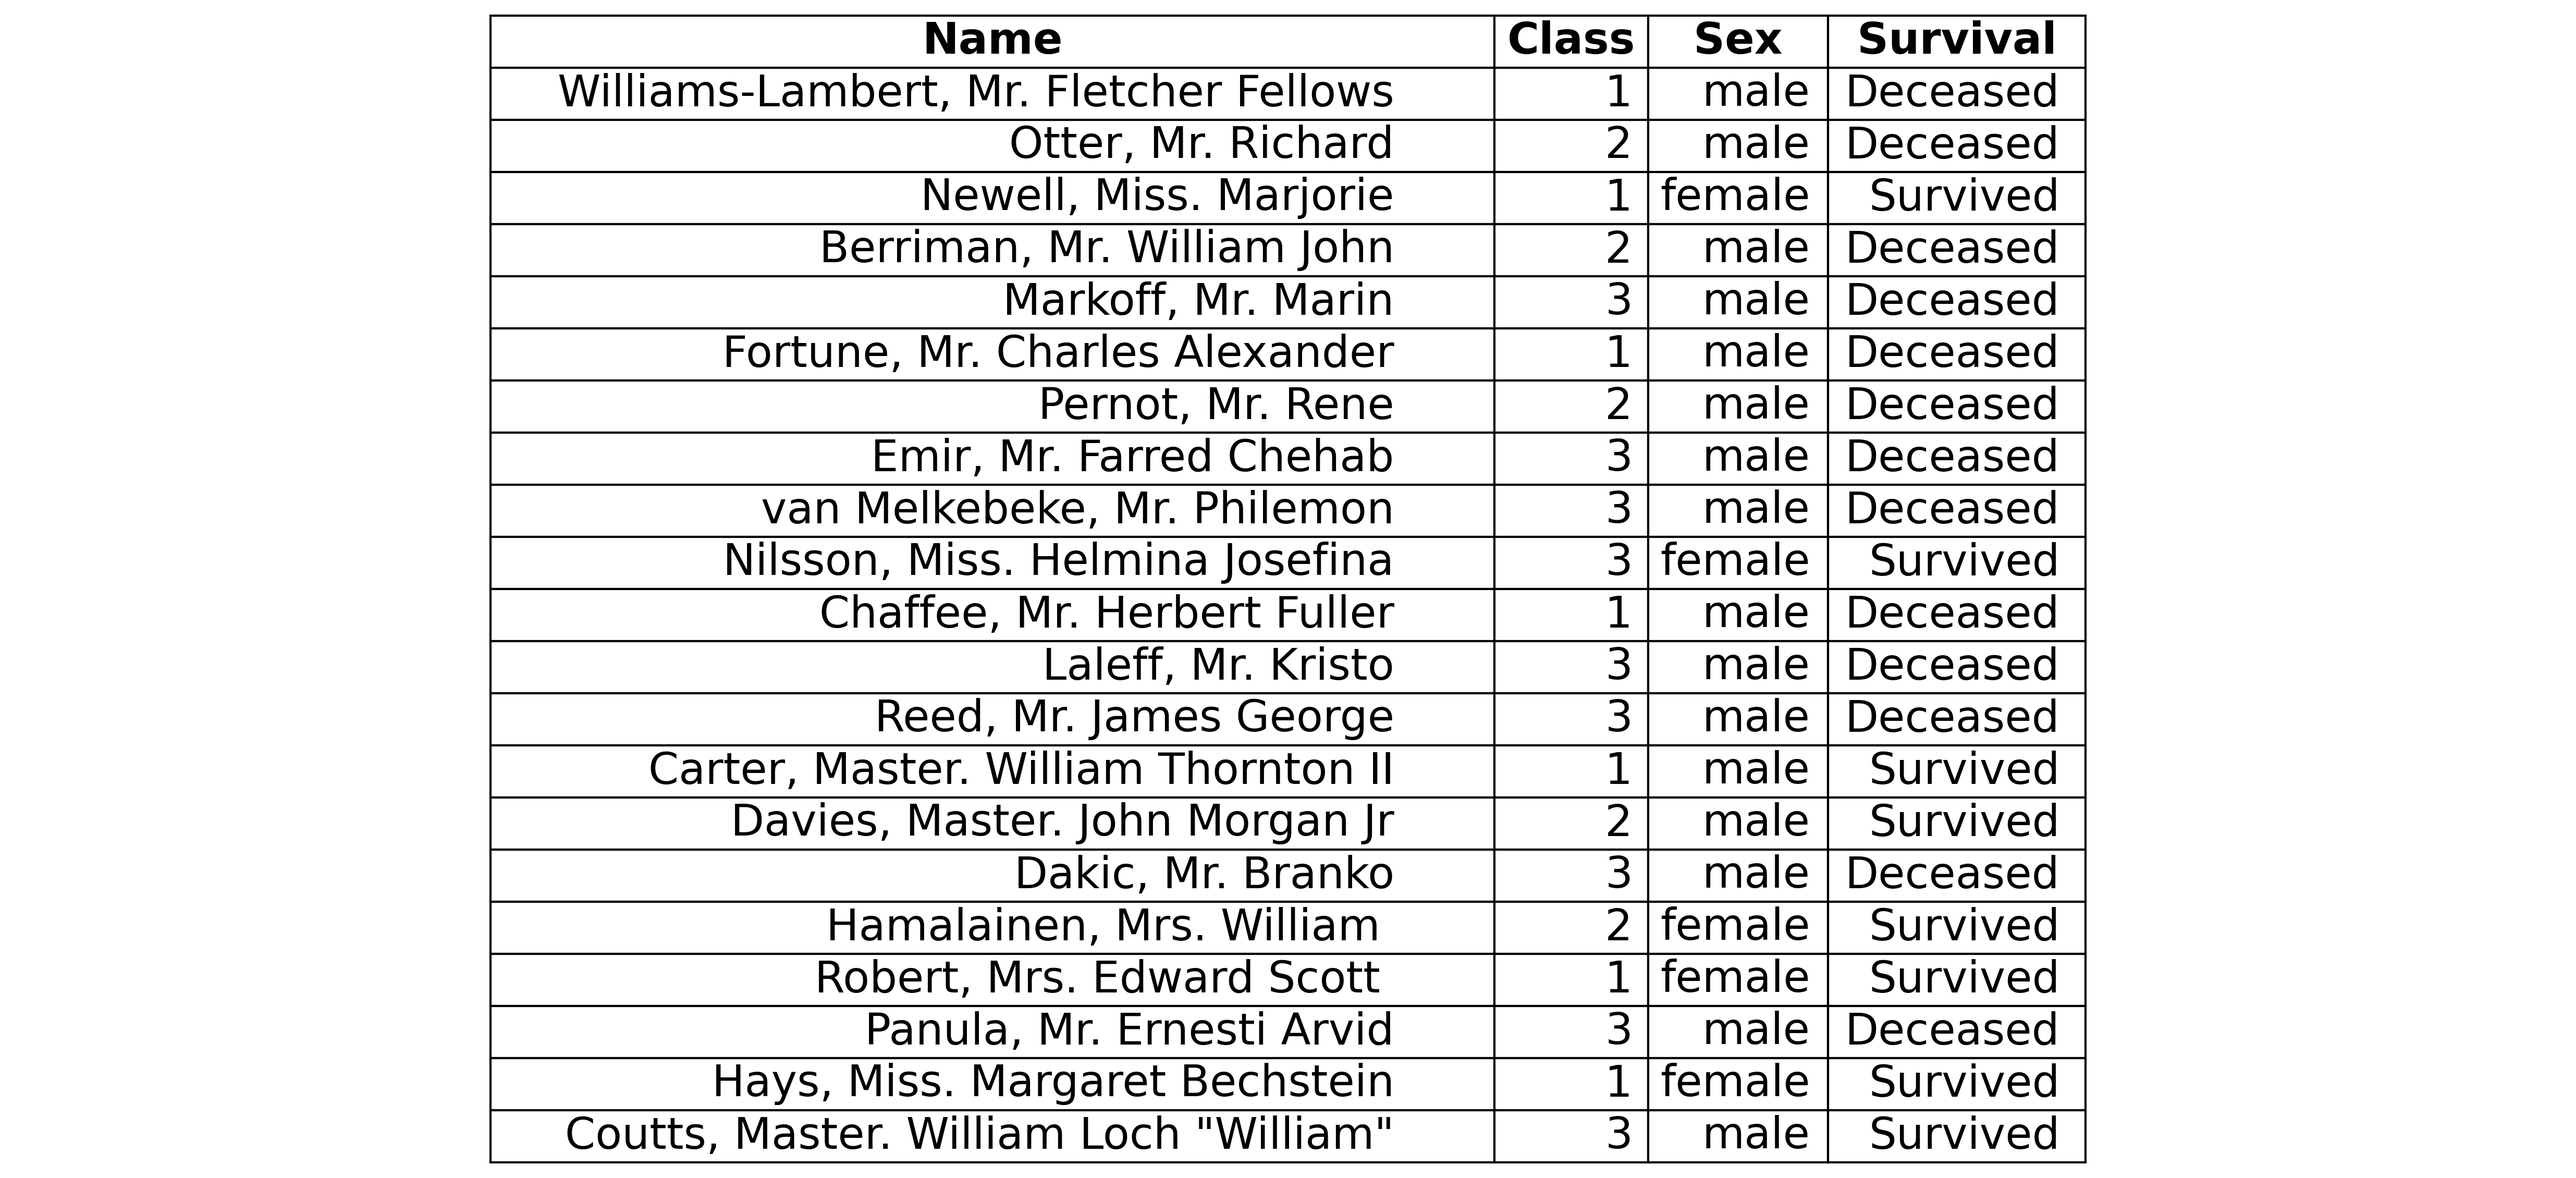
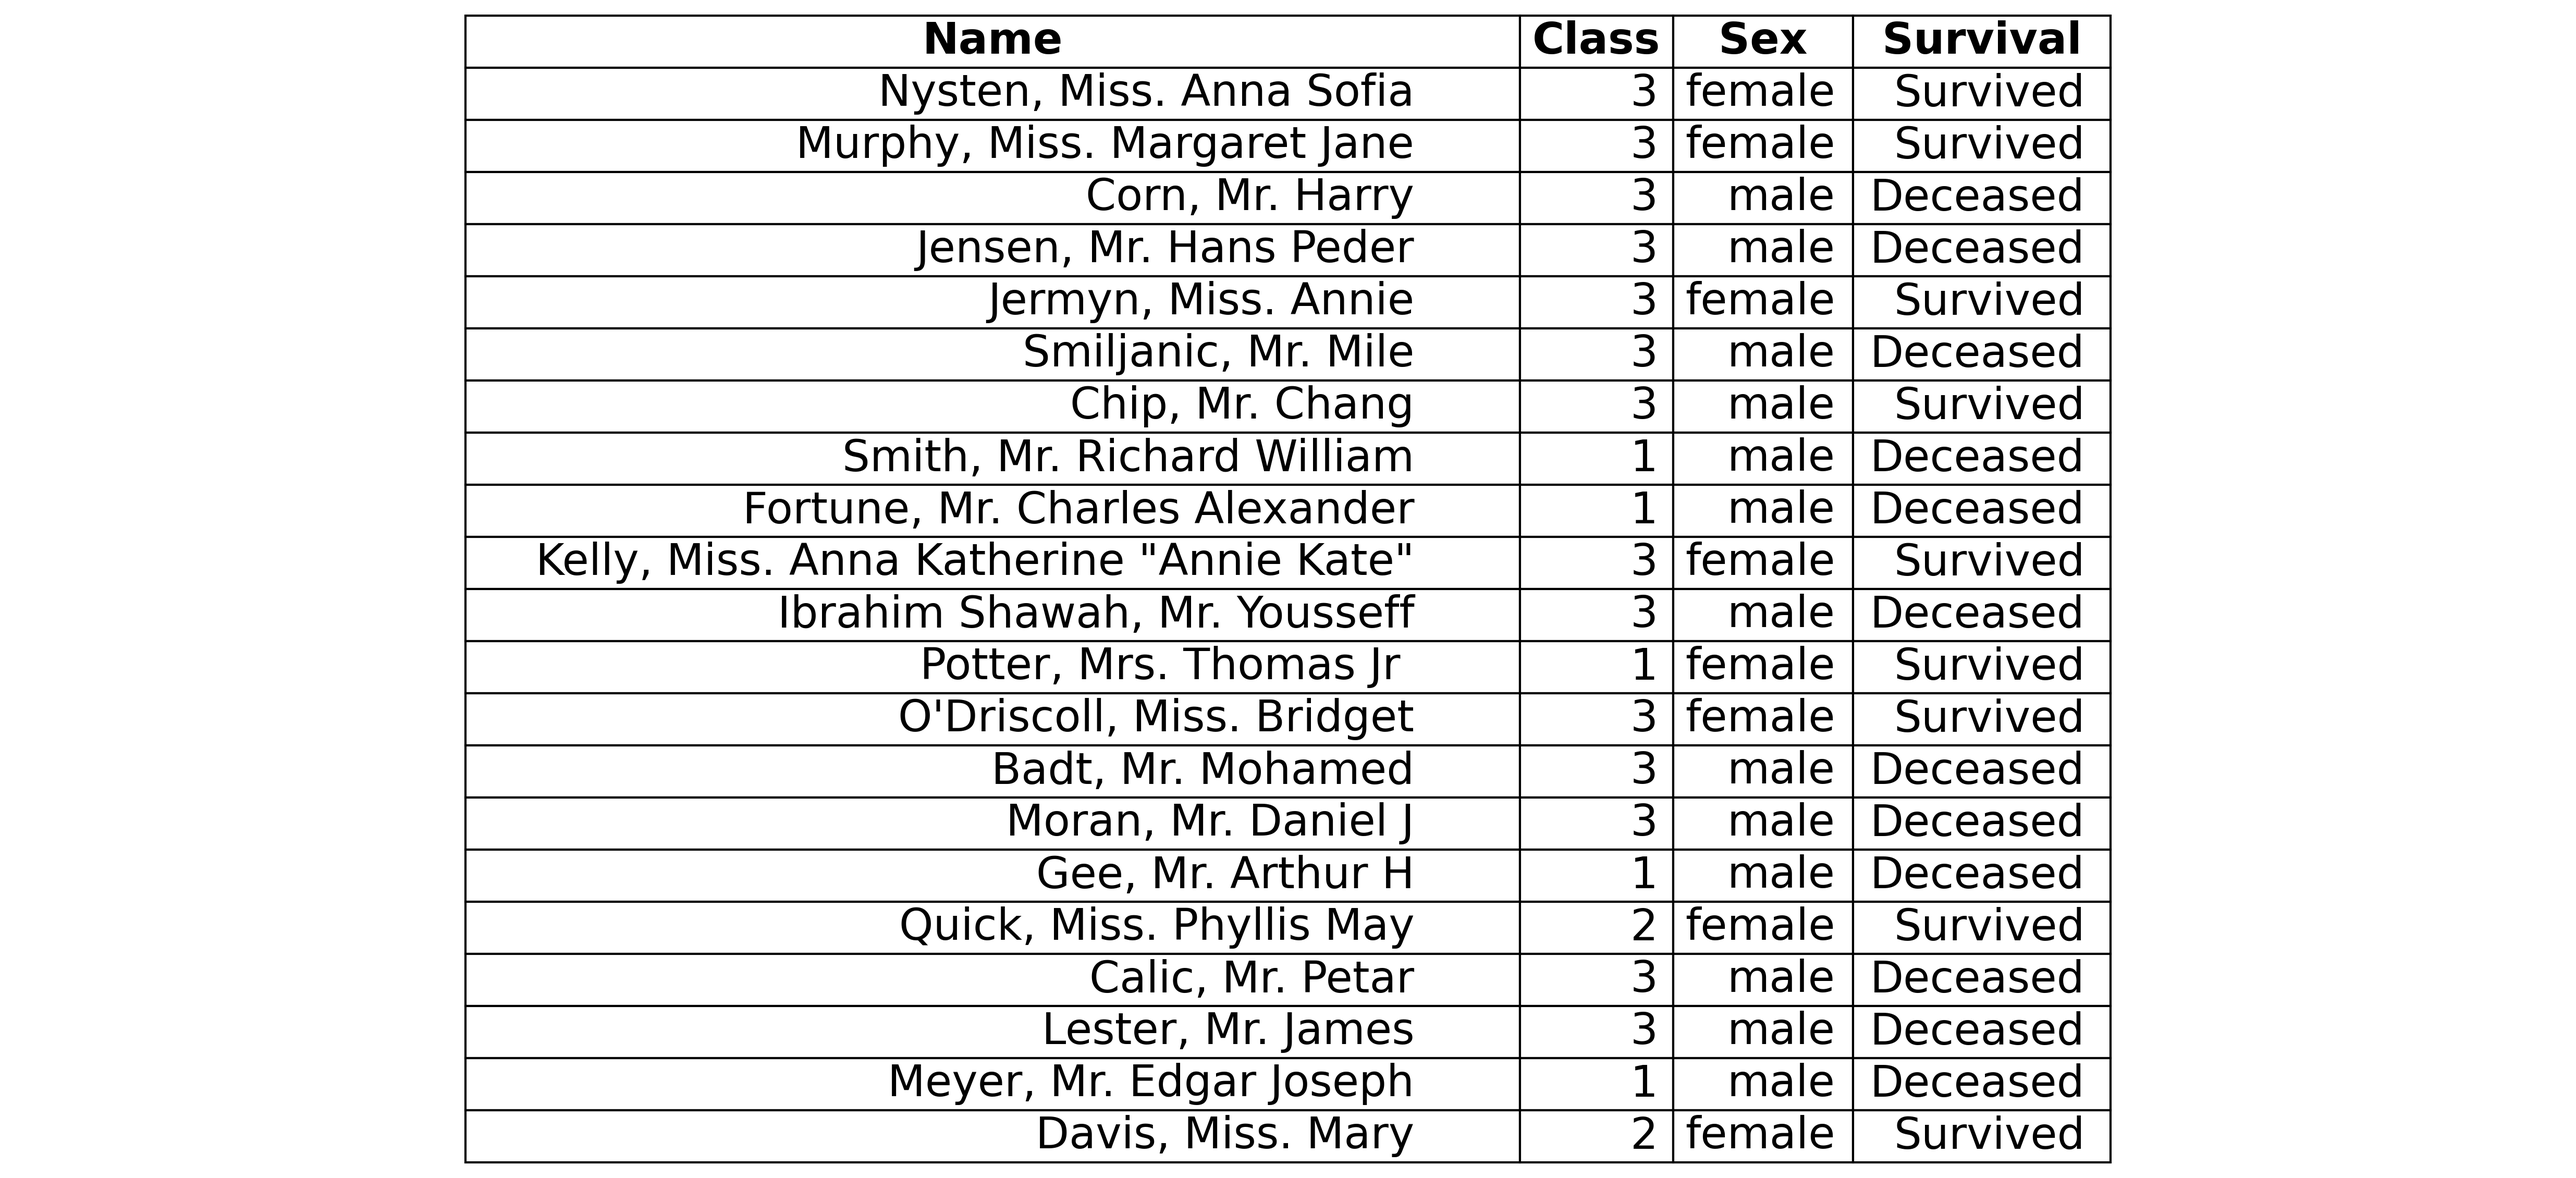
Fixed LINUX only bug

Changed region(s): [[0.187, 0.0619, 0.5609, 0.9912], [0.5609, 0.0, 0.8102, 0.9912]]

diff --git a/gm_guide.html b/gm_guide.html
@@ -339,64 +339,64 @@
 
 <strong>Card 1</strong>
 <pre><code>
-name: Andersson, Miss. Sigrid Elisabeth
+name: Attalah, Miss. Malake
 Pclass: 3
-Age: 11.0
+Age: 17.0
 Sex: female
-Fare: 31.27
-Embarked: S
+Fare: 14.46
+Embarked: C
 </code></pre>
 <strong>Card 2</strong>
 <pre><code>
-name: Dorking, Mr. Edward Arthur
-Pclass: 3
-Age: 19.0
-Sex: male
-Fare: 8.05
+name: Kenyon, Mrs. Frederick R (Marion)
+Pclass: 1
+Age: nan
+Sex: female
+Fare: 0.94
 Embarked: S
 </code></pre>
 <strong>Card 3</strong>
 <pre><code>
-name: Doharr, Mr. Tannous
-Pclass: 2
+name: O'Sullivan, Miss. Bridget Mary
+Pclass: 3
 Age: nan
-Sex: male
-Fare: 107.73
-Embarked: C
+Sex: female
+Fare: 7.63
+Embarked: Q
 </code></pre>
 <strong>Card 4</strong>
 <pre><code>
-name: Wick, Mrs. George Dennick (Mary Hitchcock)
-Pclass: 1
-Age: 45.0
-Sex: female
-Fare: 164.87
+name: Leyson, Mr. Robert William Norman
+Pclass: 2
+Age: 24.0
+Sex: male
+Fare: 10.5
 Embarked: S
 </code></pre>
 <strong>Card 5</strong>
 <pre><code>
-name: Nye, Mrs. (Elizabeth Ramell)
+name: Leitch, Miss. Jessie Wills
 Pclass: 2
-Age: 29.0
+Age: nan
 Sex: female
-Fare: 10.5
+Fare: 33.0
 Embarked: S
 </code></pre>
 <strong>Card 6</strong>
 <pre><code>
-name: Nicola-Yarred, Master. Elias
+name: Moor, Mrs. (Beila)
 Pclass: 3
-Age: 12.0
-Sex: male
-Fare: 11.24
-Embarked: C
+Age: 27.0
+Sex: female
+Fare: 12.47
+Embarked: S
 </code></pre>
 
 <hr>
 <h3>GM Guide</h3>
 
 <blockquote><strong>Hint:</strong> GM Hint: Refer to the box plot above. The forged card has a fare that doesn't match its class - either much higher or much lower than typical for that class. Players should compare each card's fare with the distribution shown in the chart for that card's class.</blockquote>
-<blockquote><strong>Answer:</strong> <div class="answer-reveal"><button class="reveal-btn" onclick="toggleAnswer('9a690f96')">Click to Reveal Answer</button><div class="answer-content" id="answer-9a690f96" style="display:none;">The forged card: 2nd class (Pclass=2) but paying £107.73, which is much higher than typical 2nd class fares (£10.50-73.50). <strong>(In this game, this card is Card 3)</strong></div></div></blockquote>
+<blockquote><strong>Answer:</strong> <div class="answer-reveal"><button class="reveal-btn" onclick="toggleAnswer('26645515')">Click to Reveal Answer</button><div class="answer-content" id="answer-26645515" style="display:none;">The forged card: 1st class (Pclass=1) but paying £0.94, which is much lower than typical 1st class fares (£5.00-512.33). <strong>(In this game, this card is Card 2)</strong></div></div></blockquote>
 <blockquote><strong>Obtain:</strong> <strong>Temporal Coordinate Fragment 1</strong> hidden under the forged card.</blockquote>
 
 <hr>
@@ -415,11 +415,11 @@ Embarked: C
 <h3>Echoes (Show to Players)</h3>
 
 <ul>
-<li>Echo A: Lanterns sway as the deck tilts; O'Brien steadies a stranger amid rising alarm.</li>
-<li>Echo B: In the final chaos, Newell finds space in a lifeboat and slips into the night.</li>
-<li>Echo C: Toomey boards at Southampton (S); a second-class ticket rustles in hand.</li>
-<li>Echo D: Connolly boards at Queenstown (Q); a third-class ticket rustles in hand.</li>
-<li>Echo E: Ross boards at Cherbourg (C); a first-class ticket rustles in hand.</li>
+<li>Echo A: Farrell boards at Queenstown (Q); a third-class ticket rustles in hand.</li>
+<li>Echo B: Skoog boards at Southampton (S); a third-class ticket rustles in hand.</li>
+<li>Echo C: In the final chaos, Fischer finds space in a lifeboat and slips into the night.</li>
+<li>Echo D: Lanterns sway as the deck tilts; Skoog steadies a stranger amid rising alarm.</li>
+<li>Echo E: Nicola-Yarred boards at Cherbourg (C); a third-class ticket rustles in hand.</li>
 </ul>
 
 <strong>Task:</strong> Arrange the echoes (A–E) in correct chronological order.
@@ -427,7 +427,7 @@ Embarked: C
 <hr>
 <h3>GM Guide</h3>
 
-<blockquote><strong>Answer:</strong> <div class="answer-reveal"><button class="reveal-btn" onclick="toggleAnswer('ef258cd4')">Click to Reveal Answer</button><div class="answer-content" id="answer-ef258cd4" style="display:none;">Correct order: C, E, D, A, B. Boarding echoes come first and follow port order S → C → Q; post-impact echoes (tilted/helping/chaos) follow; the lifeboat escape is last.</div></div></blockquote>
+<blockquote><strong>Answer:</strong> <div class="answer-reveal"><button class="reveal-btn" onclick="toggleAnswer('f148fa3d')">Click to Reveal Answer</button><div class="answer-content" id="answer-f148fa3d" style="display:none;">Correct order: B, E, A, D, C. Boarding echoes come first and follow port order S → C → Q; post-impact echoes (tilted/helping/chaos) follow; the lifeboat escape is last.</div></div></blockquote>
 <blockquote><strong>Obtain:</strong> <strong>Temporal Coordinate Fragment 2</strong> revealed when the order is correct.</blockquote>
 
 <hr>
@@ -445,38 +445,38 @@ Embarked: C
 
 <strong>Card 1</strong>
 <pre><code>
-Name: de Pelsmaeker, Mr. Alfons
+Name: O'Brien, Mr. Timothy
 Pclass: 3
-Age: 16
+Age: 39
 Sex: male
-Fare: 9.5
-Embarked: S
+Fare: 7.83
+Embarked: Q
 </code></pre>
 <strong>Card 2</strong>
 <pre><code>
-Name: Mernagh, Mr. Robert
+Name: Gustafsson, Mr. Karl Gideon
 Pclass: 3
-Age: 33
+Age: 19
 Sex: male
-Fare: 7.75
-Embarked: Q
+Fare: 7.78
+Embarked: S
 </code></pre>
 <strong>Card 3</strong>
 <pre><code>
-Name: Bissette, Miss. Amelia
+Name: Madill, Miss. Georgette Alexandra
 Pclass: 1
-Age: 35
+Age: 15
 Sex: female
-Fare: 135.63
+Fare: 211.34
 Embarked: S
 </code></pre>
 <strong>Card 4</strong>
 <pre><code>
-Name: Ford, Mr. William Neal
+Name: Murdlin, Mr. Joseph
 Pclass: 3
-Age: 16
+Age: 23
 Sex: male
-Fare: 34.38
+Fare: 8.05
 Embarked: S
 </code></pre>
 
@@ -484,7 +484,7 @@ Embarked: S
 <h3>GM Guide</h3>
 
 <blockquote><strong>Hint:</strong> Use the survival charts above to infer the 4-digit lifeboat code.</blockquote>
-<blockquote><strong>Answer:</strong> <div class="answer-reveal"><button class="reveal-btn" onclick="toggleAnswer('63bd35f7')">Click to Reveal Answer</button><div class="answer-content" id="answer-63bd35f7" style="display:none;">0010</div></div></blockquote>
+<blockquote><strong>Answer:</strong> <div class="answer-reveal"><button class="reveal-btn" onclick="toggleAnswer('936c315d')">Click to Reveal Answer</button><div class="answer-content" id="answer-936c315d" style="display:none;">0010</div></div></blockquote>
 <blockquote><strong>Obtain:</strong> <strong>Temporal Coordinate Fragment 3</strong> hidden within the lifeboat control panel.</blockquote>
 
 <hr>
@@ -537,9 +537,9 @@ Someone on board The Titanic</code></pre>
 <h3>A Strange Sound </h3>
 <div class="chart-container"><img src="./assets/images\morse_code_alphabet.jpg" alt="Morse Alphabet" style="max-width:100%;height:auto;border-radius:8px;box-shadow:0 4px 8px rgba(0,0,0,0.1);"></div>
 
-<audio id="audio-757c4293"><source src="./assets/audio\morse.wav" type="audio/wav"></audio><button class="reveal-btn" onclick="playSound('757c4293')">Click to Play Message</button>
-<blockquote><strong>Letters from a Stowaway:</strong> <div class="answer-reveal"><button class="reveal-btn" onclick="toggleHint('127ce56e')">Click to Reveal Hint</button><div class="answer-content" id="answer-127ce56e" style="display:none;">Caeser Cipher with key: 17</div></div> <strong>A Mysterious Code Hint:</strong> <div class="answer-reveal"><button class="reveal-btn" onclick="toggleHint('1ae84b9a')">Click to Reveal Hint</button><div class="answer-content" id="answer-1ae84b9a" style="display:none;"><div class="chart-container"><img src="./assets/images\plaintext_alphabet_img.png" alt="Plaintext Alphabet Grid" style="max-width:100%;height:auto;border-radius:8px;box-shadow:0 4px 8px rgba(0,0,0,0.1);"></div></div></div> <strong>A Strange Sound Hint:</strong> <div class="answer-reveal"><button class="reveal-btn" onclick="toggleHint('2695e642')">Click to Reveal Hint</button><div class="answer-content" id="answer-2695e642" style="display:none;">--   .-   .-..   .</div></div></blockquote>
-<blockquote><strong>Final Answer:</strong> <div class="answer-reveal"><button class="reveal-btn" onclick="toggleAnswer('229cc69f')">Click to Reveal Answer</button><div class="answer-content" id="answer-229cc69f" style="display:none;">The alias of the Guest from the Deep is: Eklund, Mr. Hans Linus</div></div>---</blockquote>
+<audio id="audio-00e127c7"><source src="./assets/audio\morse.wav" type="audio/wav"></audio><button class="reveal-btn" onclick="playSound('00e127c7')">Click to Play Message</button>
+<blockquote><strong>Letters from a Stowaway:</strong> <div class="answer-reveal"><button class="reveal-btn" onclick="toggleHint('e84ea524')">Click to Reveal Hint</button><div class="answer-content" id="answer-e84ea524" style="display:none;">Caeser Cipher with key: 15</div></div> <strong>A Mysterious Code Hint:</strong> <div class="answer-reveal"><button class="reveal-btn" onclick="toggleHint('91ccdea0')">Click to Reveal Hint</button><div class="answer-content" id="answer-91ccdea0" style="display:none;"><div class="chart-container"><img src="./assets/images\plaintext_alphabet_img.png" alt="Plaintext Alphabet Grid" style="max-width:100%;height:auto;border-radius:8px;box-shadow:0 4px 8px rgba(0,0,0,0.1);"></div></div></div> <strong>A Strange Sound Hint:</strong> <div class="answer-reveal"><button class="reveal-btn" onclick="toggleHint('33c660f7')">Click to Reveal Hint</button><div class="answer-content" id="answer-33c660f7" style="display:none;">--   .-   .-..   .</div></div></blockquote>
+<blockquote><strong>Final Answer:</strong> <div class="answer-reveal"><button class="reveal-btn" onclick="toggleAnswer('887dbf3c')">Click to Reveal Answer</button><div class="answer-content" id="answer-887dbf3c" style="display:none;">The alias of the Guest from the Deep is: Corn, Mr. Harry</div></div>---</blockquote>
 <h2>Game End</h2>
 
 <p>Congratulations! You've collected all 5 coordinate fragments, restarted the time machine, and successfully escaped from 1912 at the moment the Titanic sank.</p>

diff --git a/challenge4.py b/challenge4.py
@@ -61,6 +61,7 @@ def generate_alphabet_sheet(letters_dir):
 def generate_cipher_puzzle_fig(input_string, cipher_letters_dir):
     ### Turns "survived" or "deceased" into an image of the puzzle
     cipher_letters_dir_list = []
+    input_string = input_string.upper()
     for letter in input_string:
         cipher_letters_dir_list.append(cipher_letters_dir + f"/Letter_{letter}.png")
 

diff --git a/gm_guide.md b/gm_guide.md
@@ -16,64 +16,64 @@
 
 **Card 1**
 ```
-name: Andersson, Miss. Sigrid Elisabeth
+name: Attalah, Miss. Malake
 Pclass: 3
-Age: 11.0
+Age: 17.0
 Sex: female
-Fare: 31.27
-Embarked: S
+Fare: 14.46
+Embarked: C
 ```
 **Card 2**
 ```
-name: Dorking, Mr. Edward Arthur
-Pclass: 3
-Age: 19.0
-Sex: male
-Fare: 8.05
+name: Kenyon, Mrs. Frederick R (Marion)
+Pclass: 1
+Age: nan
+Sex: female
+Fare: 0.94
 Embarked: S
 ```
 **Card 3**
 ```
-name: Doharr, Mr. Tannous
-Pclass: 2
+name: O'Sullivan, Miss. Bridget Mary
+Pclass: 3
 Age: nan
-Sex: male
-Fare: 107.73
-Embarked: C
+Sex: female
+Fare: 7.63
+Embarked: Q
 ```
 **Card 4**
 ```
-name: Wick, Mrs. George Dennick (Mary Hitchcock)
-Pclass: 1
-Age: 45.0
-Sex: female
-Fare: 164.87
+name: Leyson, Mr. Robert William Norman
+Pclass: 2
+Age: 24.0
+Sex: male
+Fare: 10.5
 Embarked: S
 ```
 **Card 5**
 ```
-name: Nye, Mrs. (Elizabeth Ramell)
+name: Leitch, Miss. Jessie Wills
 Pclass: 2
-Age: 29.0
+Age: nan
 Sex: female
-Fare: 10.5
+Fare: 33.0
 Embarked: S
 ```
 **Card 6**
 ```
-name: Nicola-Yarred, Master. Elias
+name: Moor, Mrs. (Beila)
 Pclass: 3
-Age: 12.0
-Sex: male
-Fare: 11.24
-Embarked: C
+Age: 27.0
+Sex: female
+Fare: 12.47
+Embarked: S
 ```
 
 ---
 ### GM Guide
 
 > **Hint:** GM Hint: Refer to the box plot above. The forged card has a fare that doesn't match its class - either much higher or much lower than typical for that class. Players should compare each card's fare with the distribution shown in the chart for that card's class.
-> **Answer:** [[REVEAL_ANSWER]]The forged card: 2nd class (Pclass=2) but paying £107.73, which is much higher than typical 2nd class fares (£10.50-73.50). **(In this game, this card is Card 3)**[[END_REVEAL]]
+> **Answer:** [[REVEAL_ANSWER]]The forged card: 1st class (Pclass=1) but paying £0.94, which is much lower than typical 1st class fares (£5.00-512.33). **(In this game, this card is Card 2)**[[END_REVEAL]]
 > **Obtain:** **Temporal Coordinate Fragment 1** hidden under the forged card.
 
 ---
@@ -89,18 +89,18 @@ Embarked: C
 
 ### Echoes (Show to Players)
 
-- Echo A: Lanterns sway as the deck tilts; O'Brien steadies a stranger amid rising alarm.
-- Echo B: In the final chaos, Newell finds space in a lifeboat and slips into the night.
-- Echo C: Toomey boards at Southampton (S); a second-class ticket rustles in hand.
-- Echo D: Connolly boards at Queenstown (Q); a third-class ticket rustles in hand.
-- Echo E: Ross boards at Cherbourg (C); a first-class ticket rustles in hand.
+- Echo A: Farrell boards at Queenstown (Q); a third-class ticket rustles in hand.
+- Echo B: Skoog boards at Southampton (S); a third-class ticket rustles in hand.
+- Echo C: In the final chaos, Fischer finds space in a lifeboat and slips into the night.
+- Echo D: Lanterns sway as the deck tilts; Skoog steadies a stranger amid rising alarm.
+- Echo E: Nicola-Yarred boards at Cherbourg (C); a third-class ticket rustles in hand.
 
 **Task:** Arrange the echoes (A–E) in correct chronological order.
 
 ---
 ### GM Guide
 
-> **Answer:** [[REVEAL_ANSWER]]Correct order: C, E, D, A, B. Boarding echoes come first and follow port order S → C → Q; post-impact echoes (tilted/helping/chaos) follow; the lifeboat escape is last.[[END_REVEAL]]
+> **Answer:** [[REVEAL_ANSWER]]Correct order: B, E, A, D, C. Boarding echoes come first and follow port order S → C → Q; post-impact echoes (tilted/helping/chaos) follow; the lifeboat escape is last.[[END_REVEAL]]
 > **Obtain:** **Temporal Coordinate Fragment 2** revealed when the order is correct.
 
 ---
@@ -118,38 +118,38 @@ Embarked: C
 
 **Card 1**
 ```
-Name: de Pelsmaeker, Mr. Alfons
+Name: O'Brien, Mr. Timothy
 Pclass: 3
-Age: 16
+Age: 39
 Sex: male
-Fare: 9.5
-Embarked: S
+Fare: 7.83
+Embarked: Q
 ```
 **Card 2**
 ```
-Name: Mernagh, Mr. Robert
+Name: Gustafsson, Mr. Karl Gideon
 Pclass: 3
-Age: 33
+Age: 19
 Sex: male
-Fare: 7.75
-Embarked: Q
+Fare: 7.78
+Embarked: S
 ```
 **Card 3**
 ```
-Name: Bissette, Miss. Amelia
+Name: Madill, Miss. Georgette Alexandra
 Pclass: 1
-Age: 35
+Age: 15
 Sex: female
-Fare: 135.63
+Fare: 211.34
 Embarked: S
 ```
 **Card 4**
 ```
-Name: Ford, Mr. William Neal
+Name: Murdlin, Mr. Joseph
 Pclass: 3
-Age: 16
+Age: 23
 Sex: male
-Fare: 34.38
+Fare: 8.05
 Embarked: S
 ```
 
@@ -213,8 +213,8 @@ Someone on board The Titanic```
 ![Morse Alphabet](./assets/images\morse_code_alphabet.jpg)
 
 [[PLAY_SOUND]]./assets/audio\morse.wav[[END_SOUND]]
-> **Letters from a Stowaway:** [[REVEAL_HINT]]Caeser Cipher with key: 17[[END_HINT]] **A Mysterious Code Hint:** [[REVEAL_HINT]]![Plaintext Alphabet Grid](./assets/images\plaintext_alphabet_img.png)[[END_HINT]] **A Strange Sound Hint:** [[REVEAL_HINT]]--   .-   .-..   .   [[END_HINT]]
-> **Final Answer:** [[REVEAL_ANSWER]]The alias of the Guest from the Deep is: Eklund, Mr. Hans Linus[[END_REVEAL]]---
+> **Letters from a Stowaway:** [[REVEAL_HINT]]Caeser Cipher with key: 15[[END_HINT]] **A Mysterious Code Hint:** [[REVEAL_HINT]]![Plaintext Alphabet Grid](./assets/images\plaintext_alphabet_img.png)[[END_HINT]] **A Strange Sound Hint:** [[REVEAL_HINT]]--   .-   .-..   .   [[END_HINT]]
+> **Final Answer:** [[REVEAL_ANSWER]]The alias of the Guest from the Deep is: Corn, Mr. Harry[[END_REVEAL]]---
 ## Game End
 
 Congratulations! You've collected all 5 coordinate fragments, restarted the time machine, and successfully escaped from 1912 at the moment the Titanic sank.
